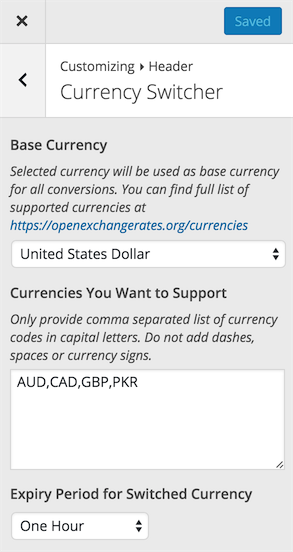
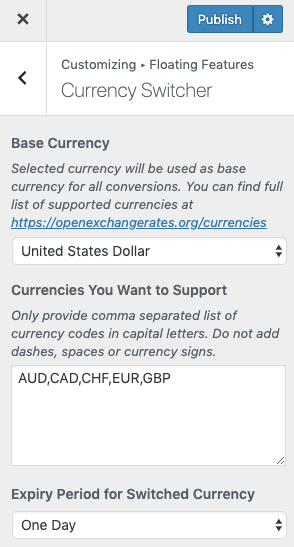
Updated “Currency Switcher” section.

diff --git a/docs/currency-switcher.md b/docs/currency-switcher.md
@@ -18,11 +18,9 @@ Provide the **API key** and save the changes.
 
 ![Real Homes Documentation](images/other-features/wp-currencies-settings.png)
 
-Now you need to navigate to **Dashboard → Real Homes → Customize Settings** and look for Header panel. This panel contains **Currency Switcher** section ( which only appears if related plugin is installed ) There you can configure related settings.
+Now you need to navigate to **Dashboard → Real Homes → Customize Settings → Floating Features** panel. This panel contains **Currency Switcher** section ( which only appears if related plugin is installed ) There you can configure related settings.
 
-![Real Homes Documentation](images/other-features/header-customizer.png)
-
-![Real Homes Documentation](images/other-features/currency-switcher-panel.png)
+![Real Homes Documentation](images/other-features/floating-features-currency-switcher.png)
 
 ![Real Homes Documentation](images/other-features/currency-switcher-settings.png)
 
@@ -31,7 +29,7 @@ Configure base currency and target currencies.
 !!! note
     If you find base currency dropdown empty then simply wait for few minutes and refresh your settings page. As this could be due to the late completion of first time data fetch request from openexchangerates.org. In case of any problem reach us on our support site.
 
-After making all the above settings, Visit your site's front end and you will have a currency switcher in your header. As displayed in screen shot below. 
+After making all the above settings, Visit your site's front end and you will have a currency switcher floating on the right side of your site. As displayed in screenshot below.
 
 ![Real Homes Documentation](images/other-features/currency-switcher-frontend.png)
 
